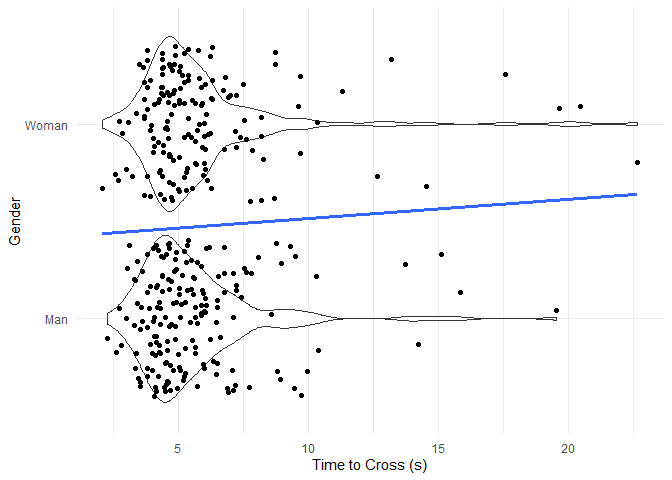
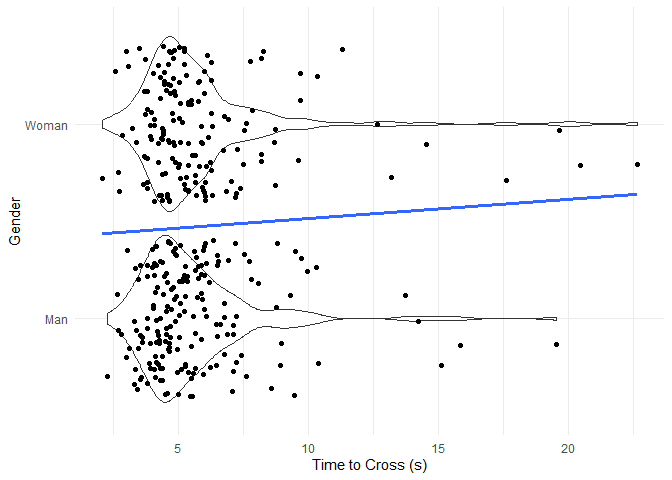
Commit from RStudio

diff --git a/racial_bias_analysis.md b/racial_bias_analysis.md
@@ -60,6 +60,41 @@ library(gt)
 ## Warning: package 'gt' was built under R version 4.6.1
 ```
 
+``` r
+library(cowplot)
+```
+
+```
+## Warning: package 'cowplot' was built under R version 4.6.1
+```
+
+```
+## 
+## Attaching package: 'cowplot'
+## 
+## The following object is masked from 'package:gt':
+## 
+##     as_gtable
+## 
+## The following object is masked from 'package:lubridate':
+## 
+##     stamp
+```
+
+``` r
+library(magick)
+```
+
+```
+## Warning: package 'magick' was built under R version 4.6.1
+```
+
+```
+## Linking to ImageMagick 6.9.13.29
+## Enabled features: cairo, freetype, fftw, ghostscript, heic, lcms, pango, raw, rsvg, webp
+## Disabled features: fontconfig, x11
+```
+
 # 2. Load data - Remove invalid trials - Trials with unaffiliated pedestrians
 
 ``` r
@@ -714,7 +749,7 @@ as_gt(table1) %>%
 ```
 
 ```
-## file:///C:/Users/KADEGA~1/AppData/Local/Temp/RtmpW6swup/file12b442a2641.html screenshot completed
+## file:///C:/Users/KADEGA~1/AppData/Local/Temp/Rtmp6JGElk/file297417531e91.html screenshot completed
 ```
 
 # 6. Mean number of cars before yield
@@ -1148,7 +1183,7 @@ as_gt(table2) %>%
 ```
 
 ```
-## file:///C:/Users/KADEGA~1/AppData/Local/Temp/RtmpW6swup/file12b431e6298e.html screenshot completed
+## file:///C:/Users/KADEGA~1/AppData/Local/Temp/Rtmp6JGElk/file29745c51c62.html screenshot completed
 ```
 
 # 7. Mean time to enter intersection
@@ -1582,7 +1617,7 @@ as_gt(table3) %>%
 ```
 
 ```
-## file:///C:/Users/KADEGA~1/AppData/Local/Temp/RtmpW6swup/file12b45ef75777.html screenshot completed
+## file:///C:/Users/KADEGA~1/AppData/Local/Temp/Rtmp6JGElk/file29741d6f401e.html screenshot completed
 ```
 
 # 8. Car proceed through intersection
@@ -2140,7 +2175,7 @@ as_gt(table4) %>%
 ```
 
 ```
-## file:///C:/Users/KADEGA~1/AppData/Local/Temp/RtmpW6swup/file12b47a3c38bd.html screenshot completed
+## file:///C:/Users/KADEGA~1/AppData/Local/Temp/Rtmp6JGElk/file2974fcf691a.html screenshot completed
 ```
 
 # 9. Cars stop close or far 
@@ -2705,7 +2740,7 @@ as_gt(table5) %>%
 ```
 
 ```
-## file:///C:/Users/KADEGA~1/AppData/Local/Temp/RtmpW6swup/file12b44bdfdb1.html screenshot completed
+## file:///C:/Users/KADEGA~1/AppData/Local/Temp/Rtmp6JGElk/file2974693f4359.html screenshot completed
 ```
 
 # 10. Histograms
@@ -3209,3 +3244,29 @@ ggplot(or3[-1,], aes(x = estimate,
 ```
 
 ![](racial_bias_analysis_files/figure-html/unnamed-chunk-59-1.png)<!-- -->
+
+# 11o. Intersection Plots
+
+``` r
+p1 <- ggdraw() + draw_image("VicRender.png")
+p2 <- ggdraw() + draw_image("2ndRender.png")
+p3 <- ggdraw() + draw_image("19thRender.png")
+p4 <- ggdraw() + draw_image("BesRender.png")
+
+final_plot <- plot_grid(p1,p2, p3, p4,
+          labels = c("A", "B", "C", "D")) +
+  theme( 
+    plot.background = element_blank(),
+    panel.background = element_blank()
+    )
+
+ggsave(
+  filename = "figure1.png",
+  plot = final_plot,
+  width = 10,
+  height = 6,
+  dpi = 300,
+  bg = "transparent"
+  )
+```
+
